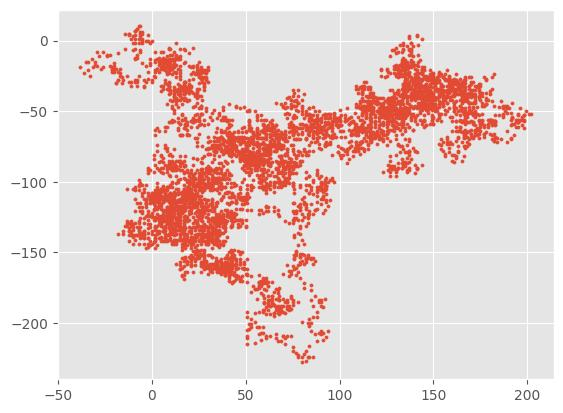
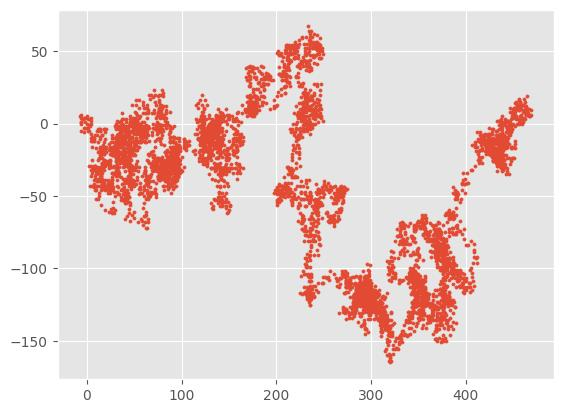
Matplotlib #6 Случайное блуждание с запросом на повтор

diff --git a/rw_visual.py b/rw_visual.py
@@ -2,12 +2,16 @@ import matplotlib.pyplot as plt
 from random_walk import RandomWalk
 
 # построение случайного блуждания
-rw = RandomWalk()
-rw.fill_walk()
+while True:
+    rw = RandomWalk()
+    rw.fill_walk()
 
-# Нанеение точек на диаграму
-plt.style.use("ggplot")
-fig, ax = plt.subplots()
-ax.scatter(rw.x_values, rw.y_values, s=5)
-plt.savefig('MPL_points.jpg', bbox_inches='tight')
-plt.show()
+    # Нанеение точек на диаграму
+    plt.style.use("ggplot")
+    fig, ax = plt.subplots()
+    ax.scatter(rw.x_values, rw.y_values, s=5)
+    plt.savefig('MPL_points.jpg', bbox_inches='tight')
+    plt.show()
+    keep_running = input("Make anower walk? (y/n)")
+    if keep_running == 'n':
+        break
